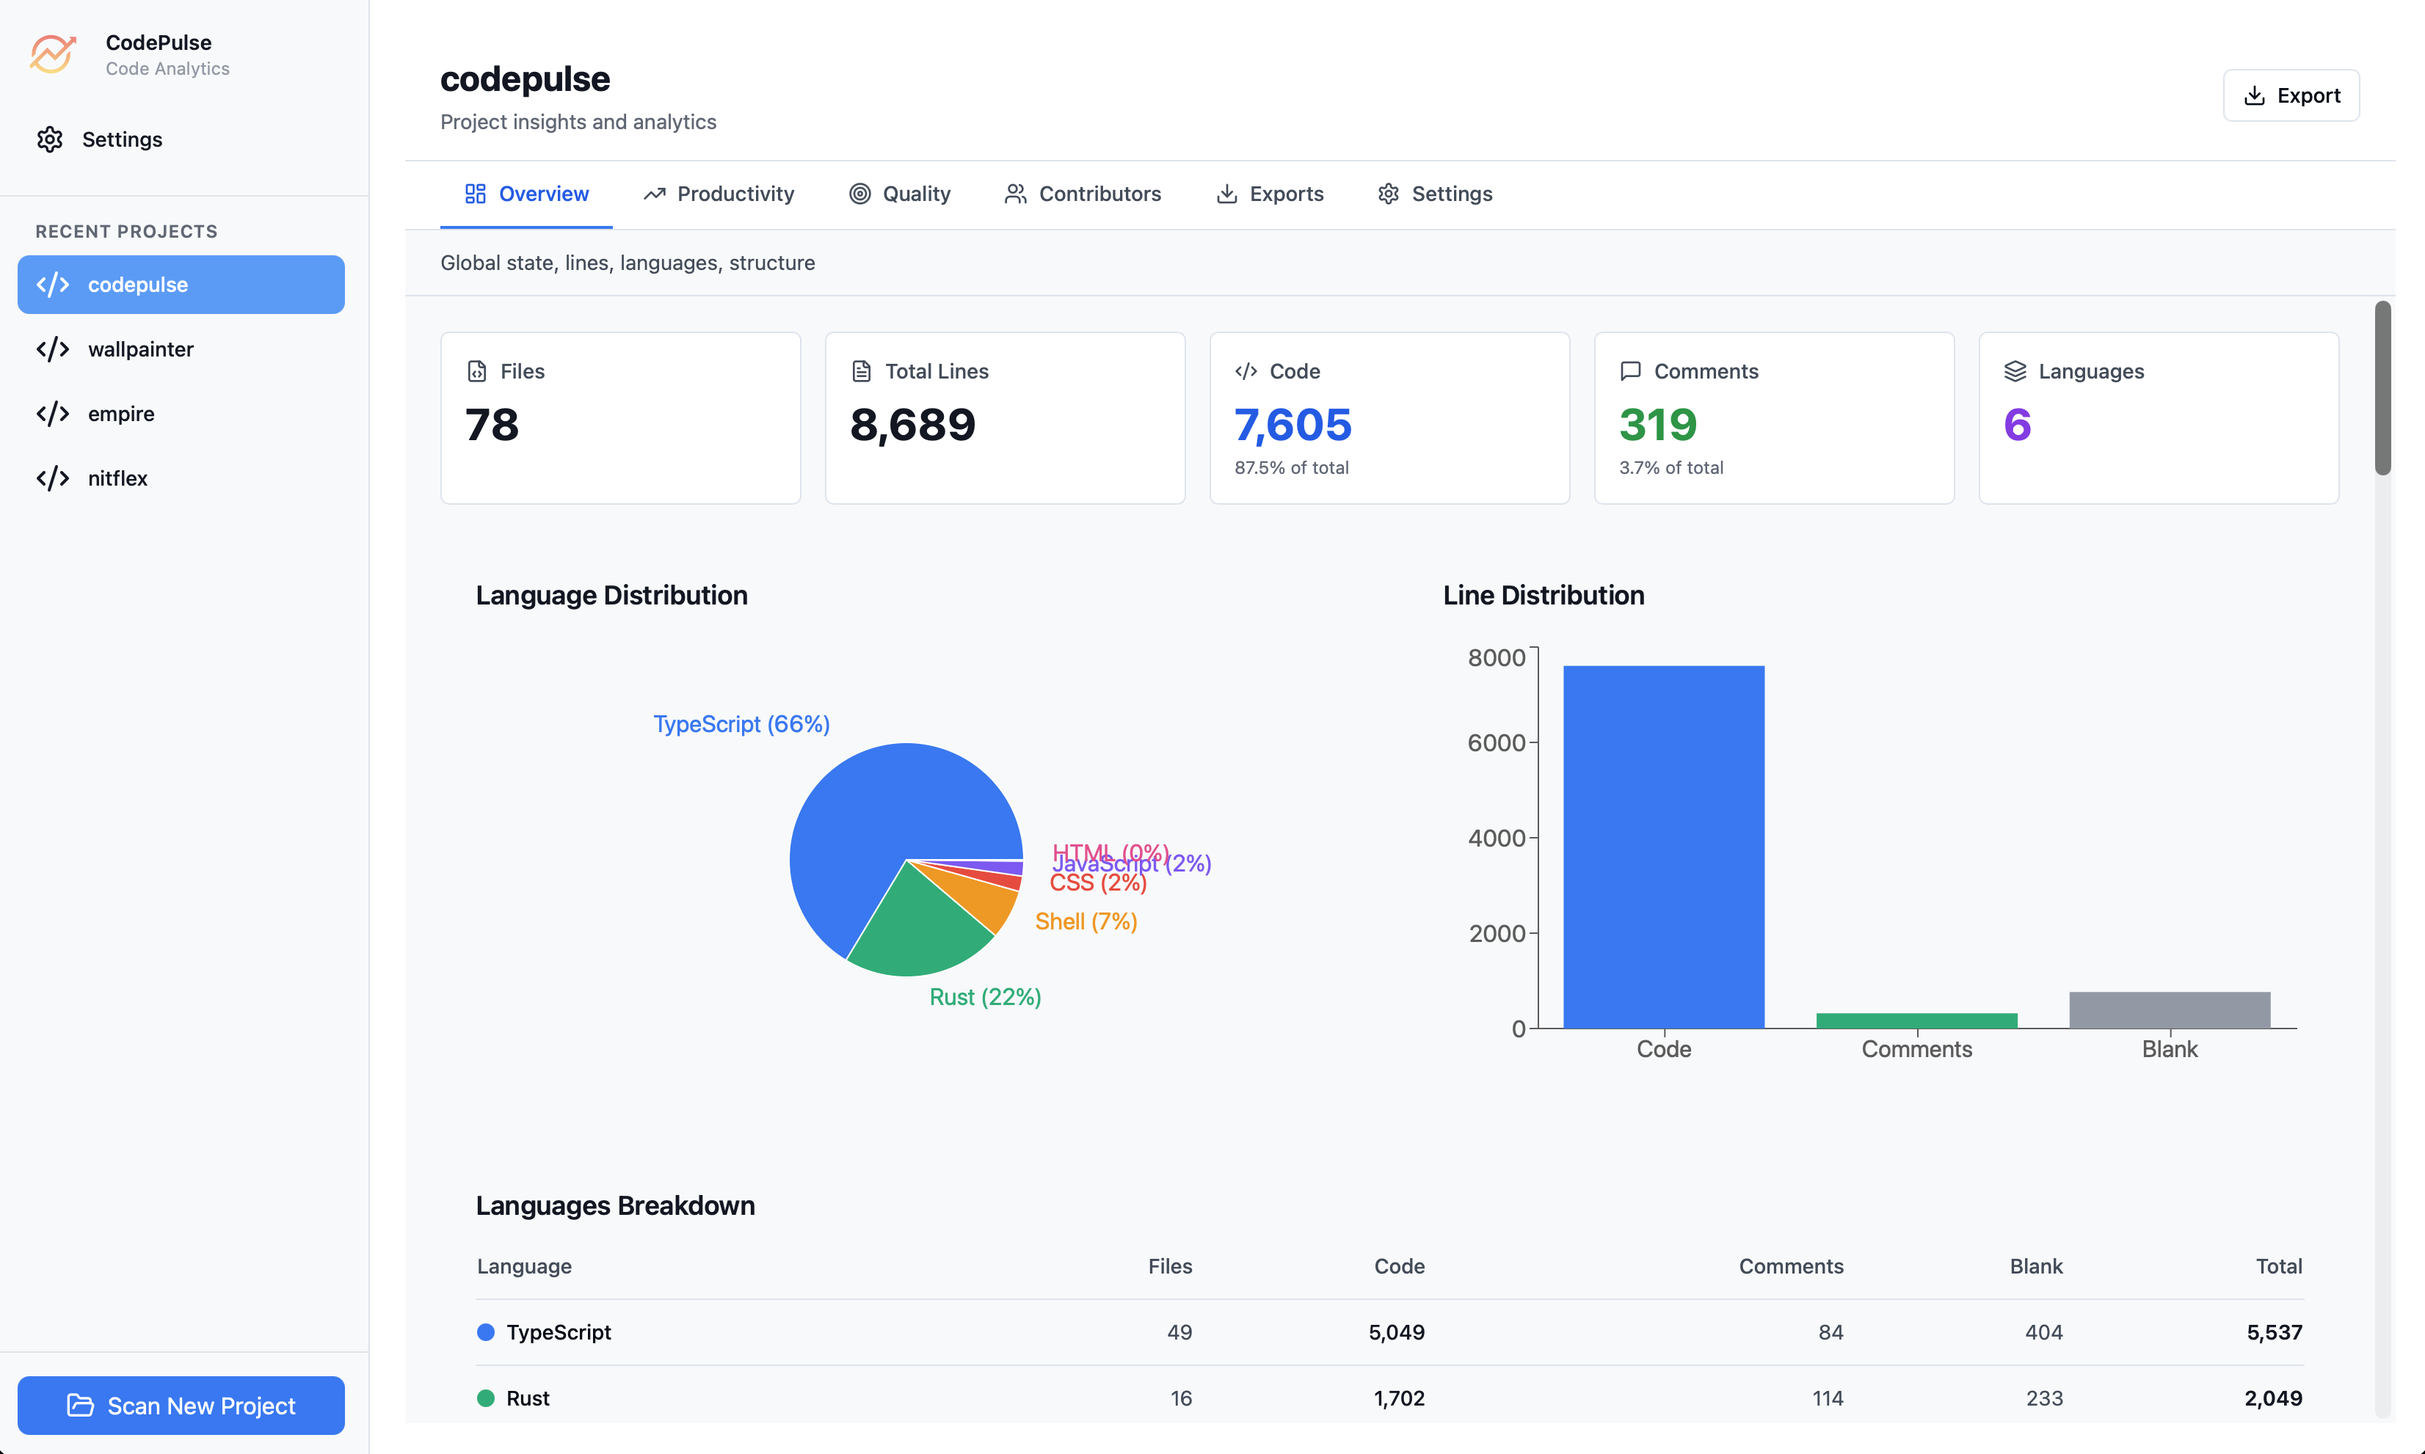
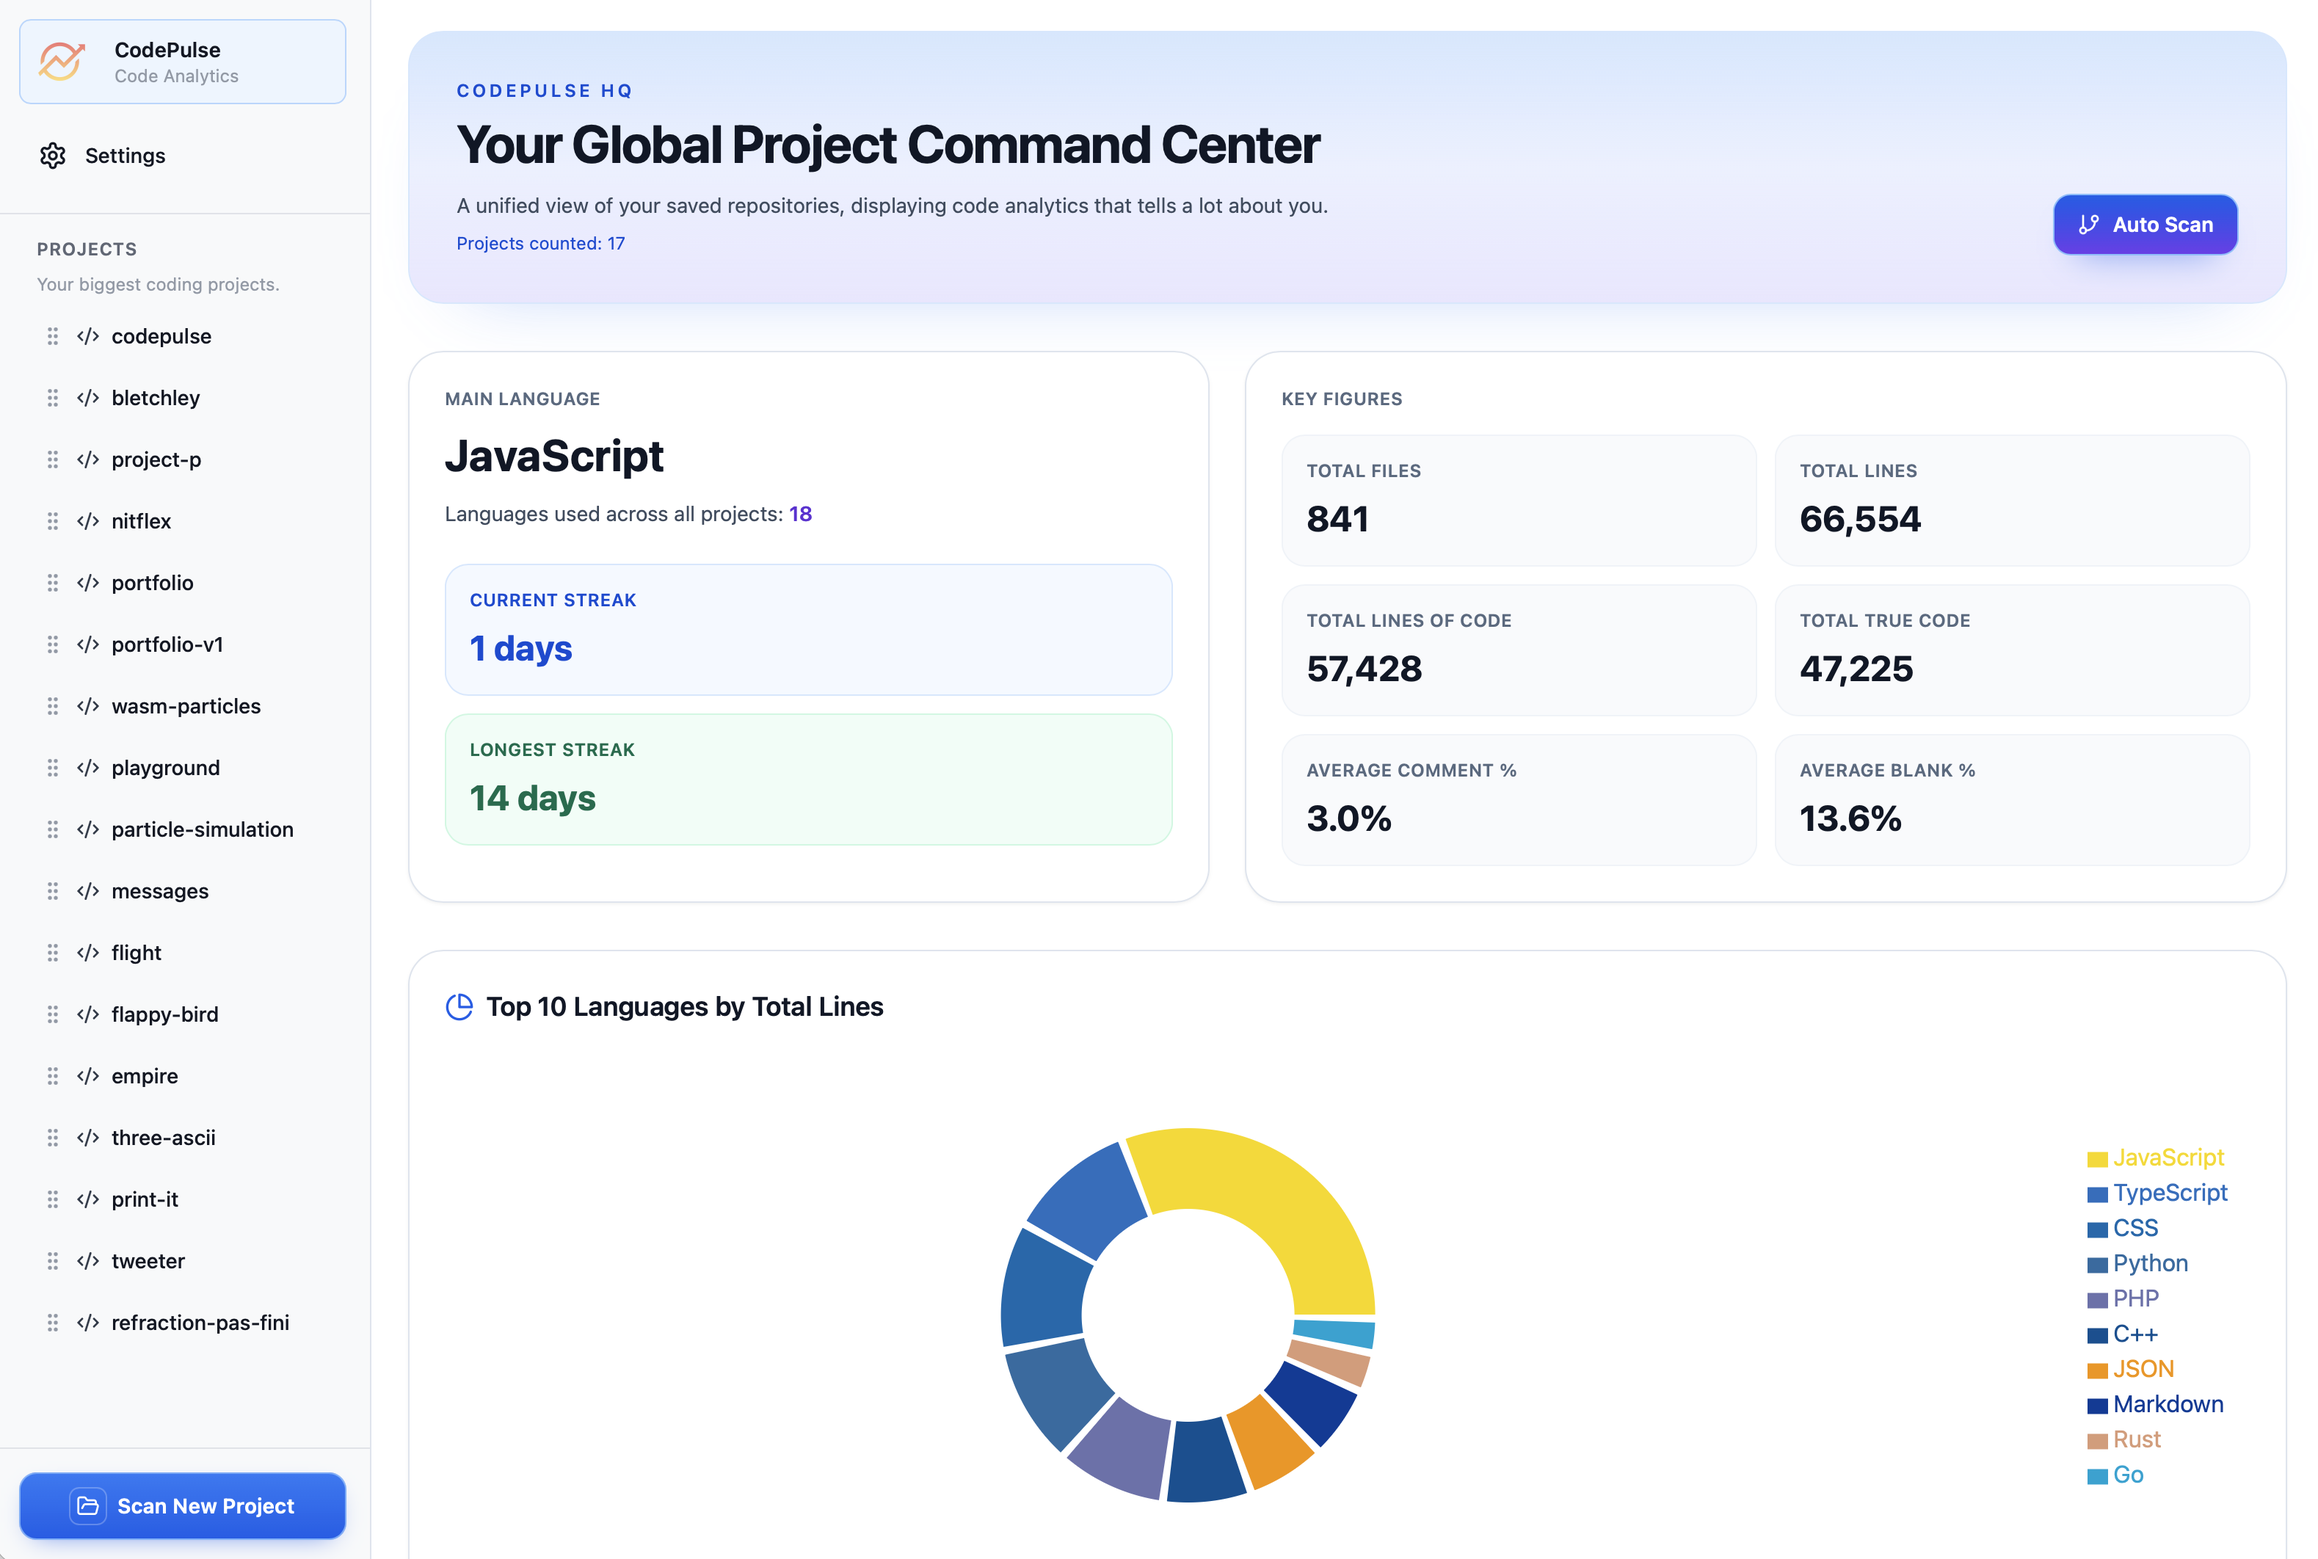
Add CodePulse as a finished and deployed project

diff --git a/src/code/script.js b/src/code/script.js
@@ -2,8 +2,8 @@ import { Octokit } from '@octokit/rest'
 
 const octokit = new Octokit({})
 const PROJECTS = [
-	'portfolio-v2',
 	'codepulse',
+	'portfolio-v2',
 	'nitflex',
 	'project-p',
 	'empire',
@@ -27,12 +27,13 @@ const WEBSITES = [
 	'messages',
 	'flight',
 	'playground',
-	'particle-simulation'
+	'particle-simulation',
+	'codepulse'
 ]
 
 const NAME_MAP = {
-	'portfolio-v2': "Alexis' Portfolio",
 	codepulse: 'CodePulse',
+	'portfolio-v2': "Alexis' Portfolio",
 	nitflex: 'Nitflex',
 	'project-p': 'Project P',
 	empire: 'Empire',
@@ -203,7 +204,7 @@ function createAllCards(container) {
 	})
 }
 
-const INDEX_PROJECTS = ['nitflex', 'project-p', 'trophees-nsi', '3d-engine-ascii']
+const INDEX_PROJECTS = ['codepulse', 'nitflex', 'project-p', 'trophees-nsi']
 export async function createIndexProgramCards(container) {
 	return new Promise((res, rej) => {
 		getProjects()
